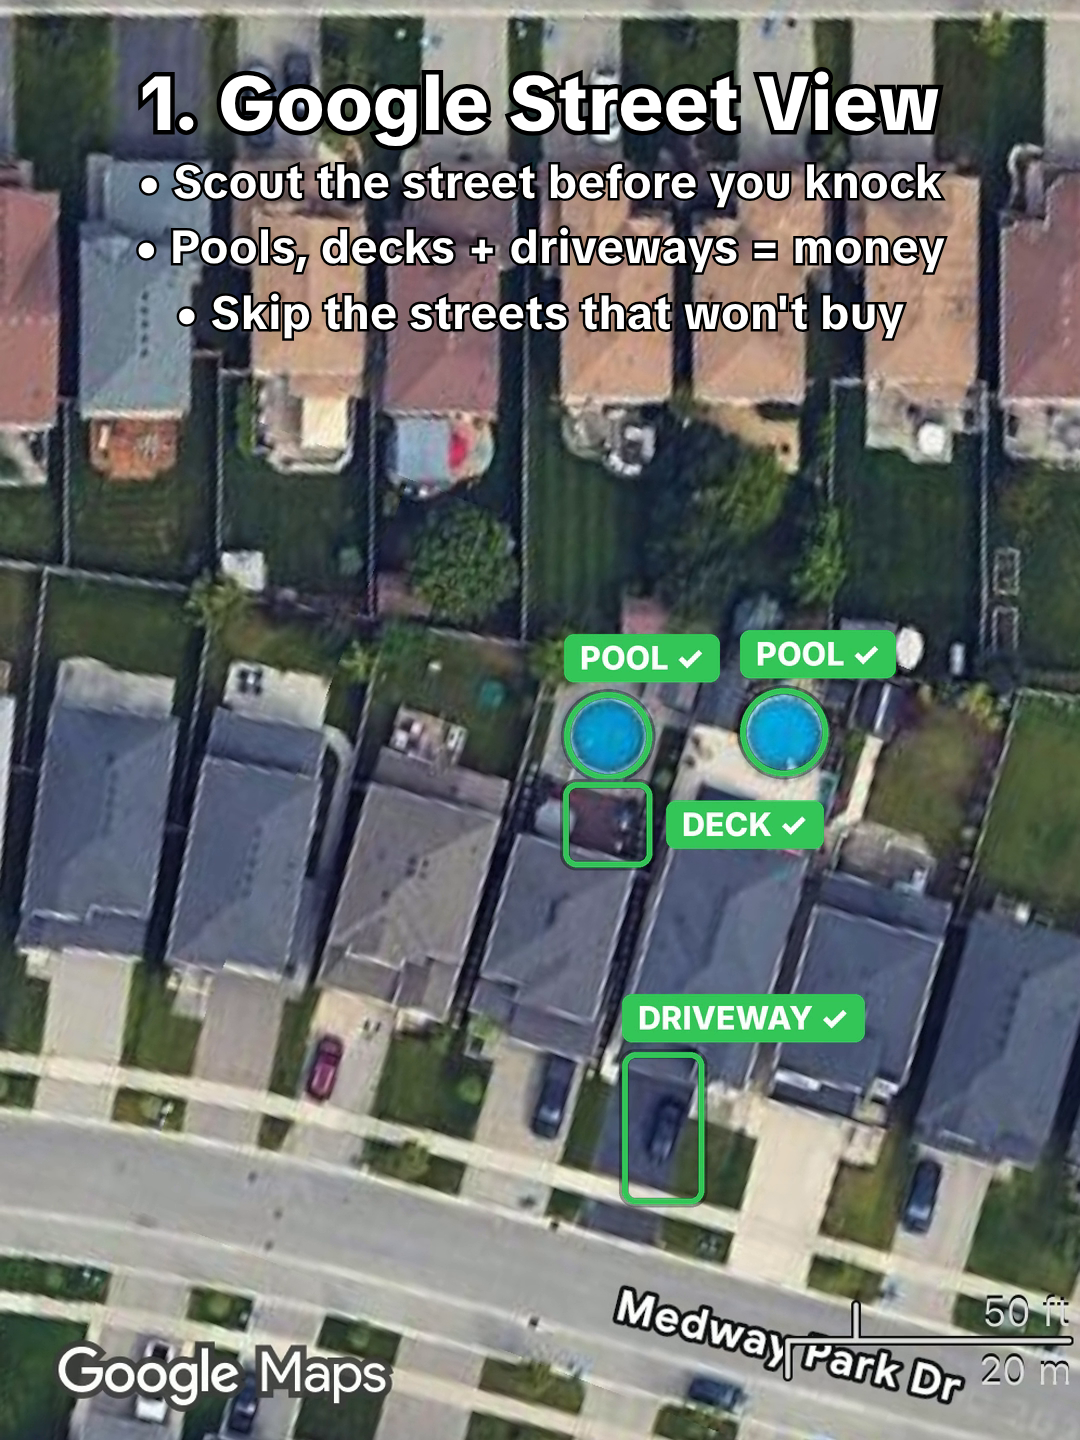
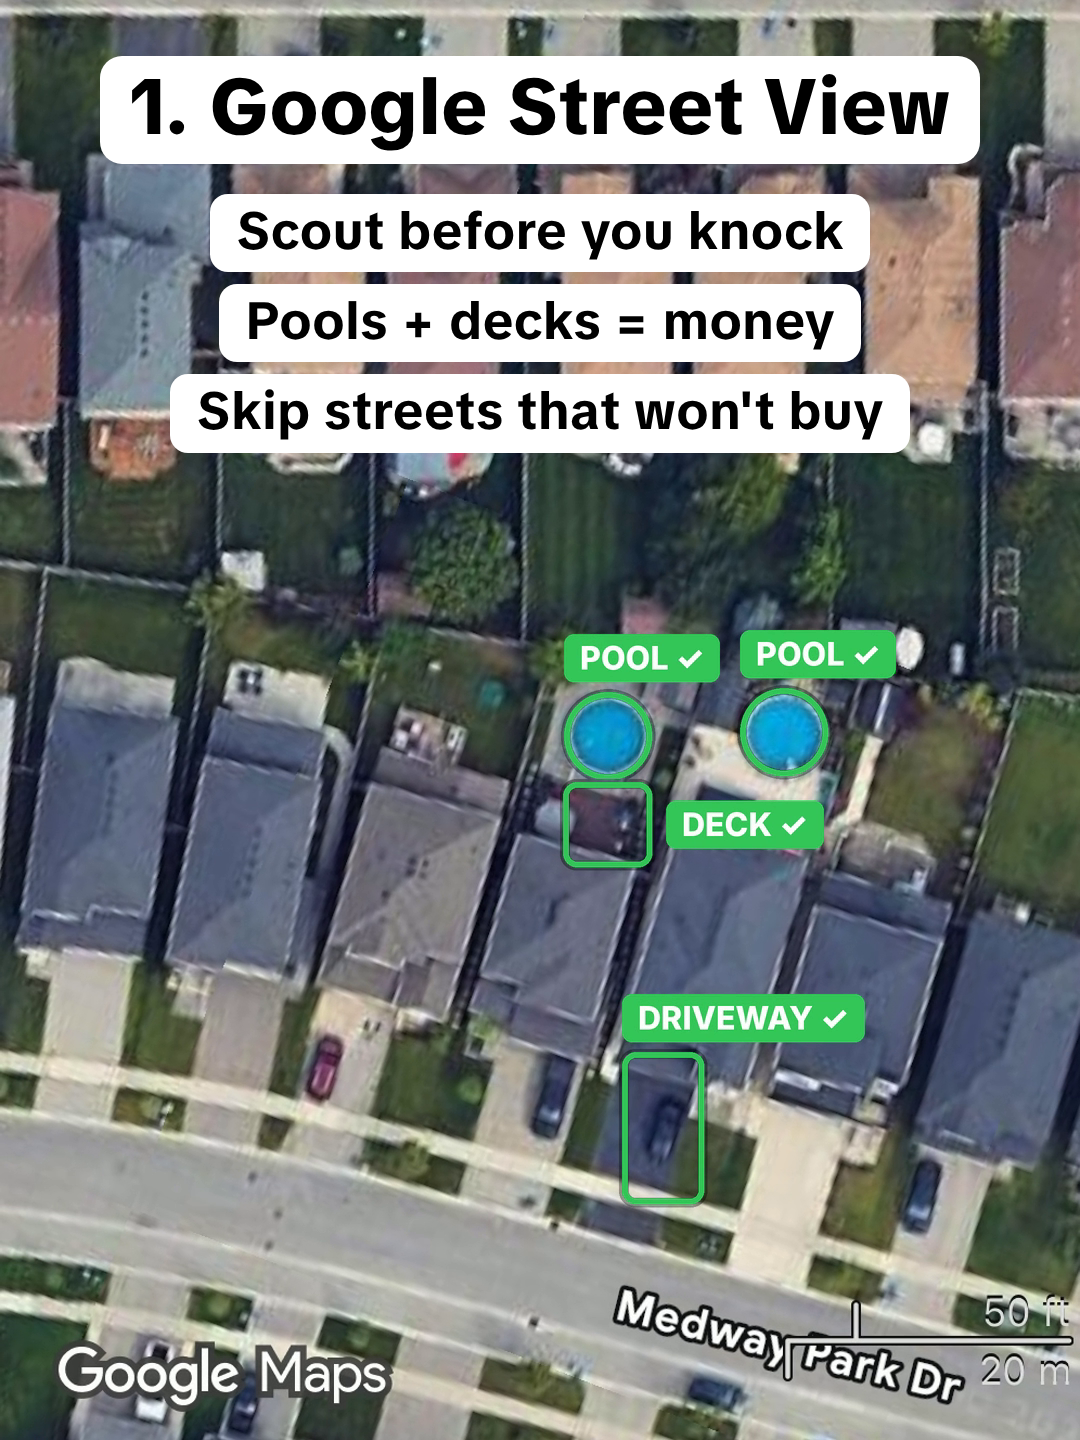
playbook: readable carousel text, realistic money shot (F59)
Claude-Session: https://claude.ai/code/session_01EVxDagMumu1dzbEEzpRUBn

Changed region(s): [[0.0917, 0.0312, 0.9167, 0.3125]]

diff --git a/video_research/content_kit/edits/tools_slides/tool.html b/video_research/content_kit/edits/tools_slides/tool.html
@@ -5,17 +5,17 @@
 html,body{margin:0;width:1080px;height:1440px;overflow:hidden;background:#000}
 img.bg{position:absolute;inset:0;width:1080px;height:1440px;object-fit:cover}
 /* TikTok default "Classic" text: TikTok Sans, white fill, black outline */
-.tt{position:absolute;left:50px;right:50px;top:64px;text-align:center;color:#fff;font-family:TT;paint-order:stroke fill}
-.tt h1{-webkit-text-stroke:9px #000;paint-order:stroke fill;margin:0 0 6px;font-weight:800;font-size:76px;line-height:1.05;letter-spacing:-.5px}
-.tt p{-webkit-text-stroke:5px #000;paint-order:stroke fill;margin:12px 0 0;font-weight:700;font-size:46px;line-height:1.16}
+.tt{position:absolute;left:40px;right:40px;top:56px;text-align:center;font-family:TT}
+.tt h1{display:inline-block;margin:0 0 18px;background:#fff;color:#000;font-weight:800;font-size:78px;line-height:1.05;padding:10px 30px 16px;border-radius:22px;letter-spacing:-.5px}
+.tt p{display:table;margin:12px auto 0;background:#fff;color:#000;font-weight:700;font-size:52px;line-height:1.12;padding:8px 26px 12px;border-radius:18px;max-width:960px}
 #cta{position:absolute;left:0;right:0;top:50%;transform:translateY(-50%);text-align:center}
 #cta .r{display:inline-block;background:#FF1430;color:#fff;font:800 112px TT;padding:12px 46px 24px;border-radius:22px}
-#cta .s{margin:22px auto 0;color:#fff;font:700 52px TT;-webkit-text-stroke:5px #000;paint-order:stroke fill;max-width:900px;line-height:1.15}
+#cta .s{display:inline-block;margin:22px auto 0;background:#fff;color:#000;font:700 54px TT;padding:8px 26px 12px;border-radius:18px;max-width:900px;line-height:1.15}
 #fol{position:absolute;left:0;right:0;bottom:90px;text-align:center}
 #fol span{display:inline-block;background:#fff;color:#000;font:700 42px TT;padding:16px 34px;border-radius:40px}
 </style></head><body><img class="bg" id="bg"><div class="tt" id="tt"></div><div id="cta"></div><div id="fol"></div>
 <script>const Q=new URLSearchParams(location.search); document.getElementById('bg').src=Q.get('img');
-if(Q.get('h')){const t=document.getElementById('tt'); t.innerHTML='<h1></h1>'; t.firstChild.textContent=Q.get('h'); for(const b of Q.getAll('b')){const p=document.createElement('p'); p.textContent='• '+b; t.appendChild(p);}}
+if(Q.get('h')){const t=document.getElementById('tt'); t.innerHTML='<h1></h1>'; t.firstChild.textContent=Q.get('h'); for(const b of Q.getAll('b')){const p=document.createElement('p'); p.textContent=b; t.appendChild(p);}}
 if(Q.get('cta')){document.getElementById('cta').innerHTML='<div class="r"></div><div class="s"></div>'; document.querySelector('#cta .r').textContent=Q.get('cta'); document.querySelector('#cta .s').textContent=Q.get('ctas');}
 if(Q.get('fol')){document.getElementById('fol').innerHTML='<span></span>'; document.querySelector('#fol span').textContent=Q.get('fol');}
 </script></body></html>

diff --git a/video_research/content_kit/edits/tools_slides/slides.js b/video_research/content_kit/edits/tools_slides/slides.js
@@ -1,9 +1,9 @@
 const { chromium } = require('playwright'); const path = require('path');
 const S = [
- ['slide2', 'c_sv.png', '1. Google Street View', ['Scout the street before you knock', 'Pools, decks + driveways = money', 'Skip the streets that won\'t buy']],
- ['slide3', 'c_ps.png', '2. PropStream', ['165+ filters on every home', 'See who owns it and for how long', 'Know what\'s left on the mortgage']],
- ['slide4', 'c_inc.png', '3. Income Map', ['Census income, block by block', 'Darker red = more money', 'Start where the money is']],
- ['slide5', 'c_lock.png', '4. SalesMapper', ['Log every knock from your lock screen', 'Your whole team on one live map', '43% more doors, 50% more sales']],
+ ['slide2', 'c_sv.png', '1. Google Street View', ['Scout before you knock', 'Pools + decks = money', 'Skip streets that won\'t buy']],
+ ['slide3', 'c_ps.png', '2. PropStream', ['165+ filters per home', 'How long they\'ve owned it', 'What\'s left on the mortgage']],
+ ['slide4', 'c_inc.png', '3. Income Map', ['Income, block by block', 'Darker red = more money', 'Knock the rich blocks first']],
+ ['slide5', 'c_lock.png', '4. SalesMapper', ['Knock from your lock screen', 'Whole team on one map', '43% more doors, 50% more sales']],
 ];
 (async () => { const b = await chromium.launch(); const p = await b.newPage({ viewport: { width: 1080, height: 1440 } });
   for (const [n, img, h, bs] of S) { const q = new URLSearchParams({ img, h }); bs.forEach(x => q.append('b', x));

diff --git a/video_research/content_kit/edits/tools_slides/cover.html b/video_research/content_kit/edits/tools_slides/cover.html
@@ -7,6 +7,6 @@ html,body{margin:0;width:1080px;height:1440px;overflow:hidden;background:#fff;fo
 #hook .t{font:800 66px Inter;letter-spacing:-1.8px;line-height:1.04}
 #hook .s{font:500 40px Inter;color:#d6d6d6;margin-top:10px}
 </style></head><body>
-<div class="g"><img src="bank.png"><img src="celsius.png" style="object-position:50% 70%"><img src="map.png" style="object-position:50% 40%"><img src="rep.png"></div>
-<div id="hook"><div class="b"><div class="t">4 10/10 door-to-door sales tools</div><div class="s">that progressively make you more money</div></div></div>
+<div class="g"><img src="bankphoto.png" style="object-position:50% 35%"><img src="celsius.png" style="object-position:50% 70%"><img src="map.png" style="object-position:50% 40%"><img src="rep.png"></div>
+<div id="hook"><div class="b"><div class="t">10/10 door-to-door sales tools</div><div class="s">(that progressively make you more money)</div></div></div>
 </body></html>

diff --git a/video_research/edit_playbook/FEEDBACK_LOG.md b/video_research/edit_playbook/FEEDBACK_LOG.md
@@ -254,6 +254,11 @@ Append-only. Newest entries at the bottom. Each entry: ID, date, video/version, 
 - Rule: cut filler verdict lines ("it's very effective", "it's great") that repeat what the visual already proved; end the section on the payoff word. Callouts move with the cut so each stays on screen at least ~1 s (highest on "who's", lowest on "earning").
 - Fix: tools_v9_instagram.mp4, 43.4 s (E3 ends on "money."), masks and cues shifted 34 frames.
 
+
+**F59** (2026-11-25, 4 tools slideshow v1). "For the title slide, I want 10 out of 10 door-to-door sales tools, then brackets below: (that progressively make you more money)." "The bank image needs to look real... go scrape a screenshot of someone with a lot of money." "For the bullets, make this text readable. That's the main thing."
+- Wrong: outlined text over busy visuals was hard to read; the built bank UI looked fake.
+- Rules: carousel text uses TikTok's background style (black TikTok Sans on white rounded boxes, title ~78 px, bullets ~52 px, 2-5 words each). Money shots are realistic AI photos of a phone held in hand with a generic, unbranded bank app. Don't use real bank branding (fake record) or a stranger's real bank screenshot (someone else's private financial info).
+
 ## Shipped
 - d2d_3_ways_close_rate_v4b.mp4 (1-2-3 order). Shipped 2026-11-21. Superseded: it had A/V drift (F15).
 - d2d_3_ways_123_order_FINAL.mp4 and d2d_3_ways_giftcard_first_FINAL.mp4. Shipped 2026-11-21, both QA PASS. Open: the qualifying questions and gift card business names are placeholders.
